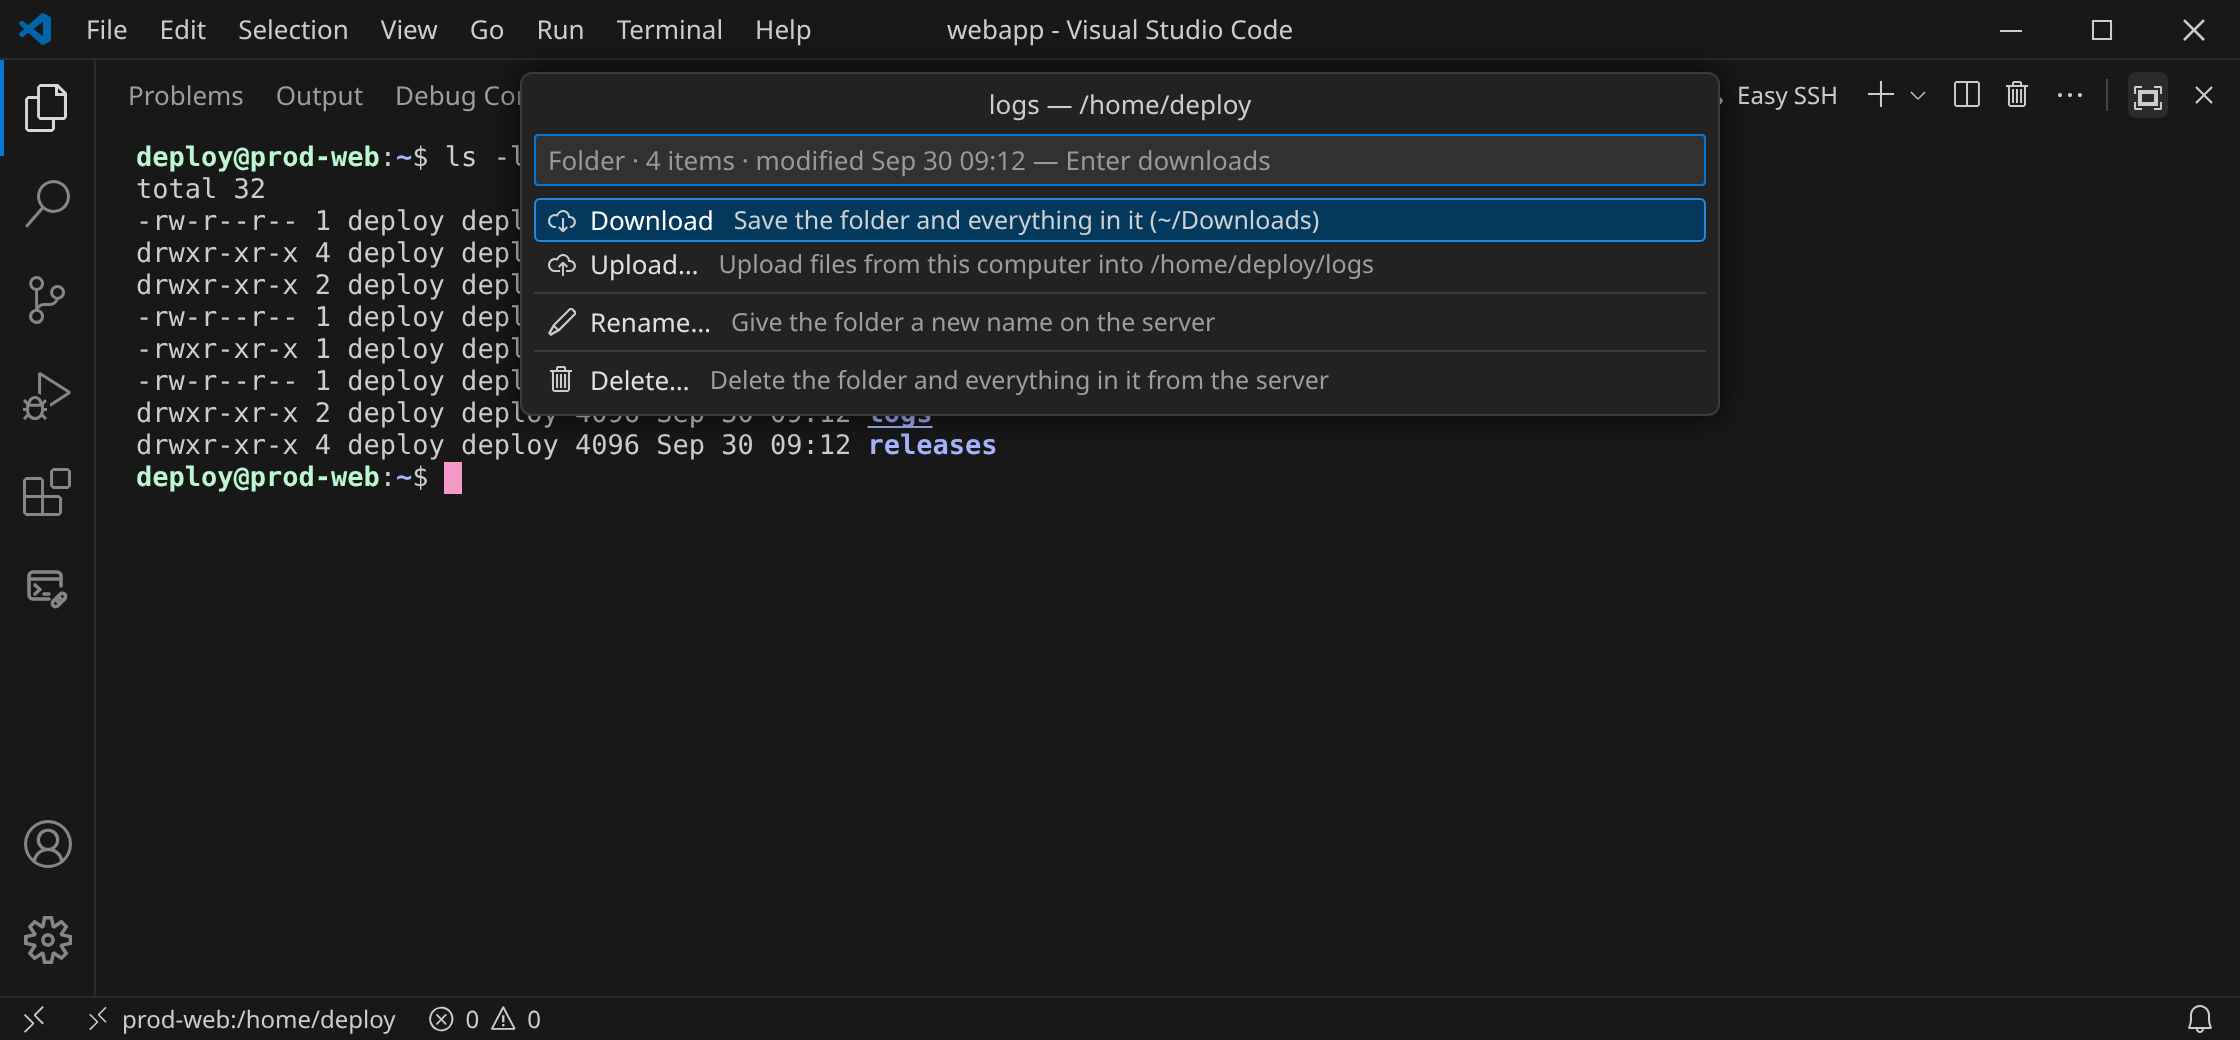
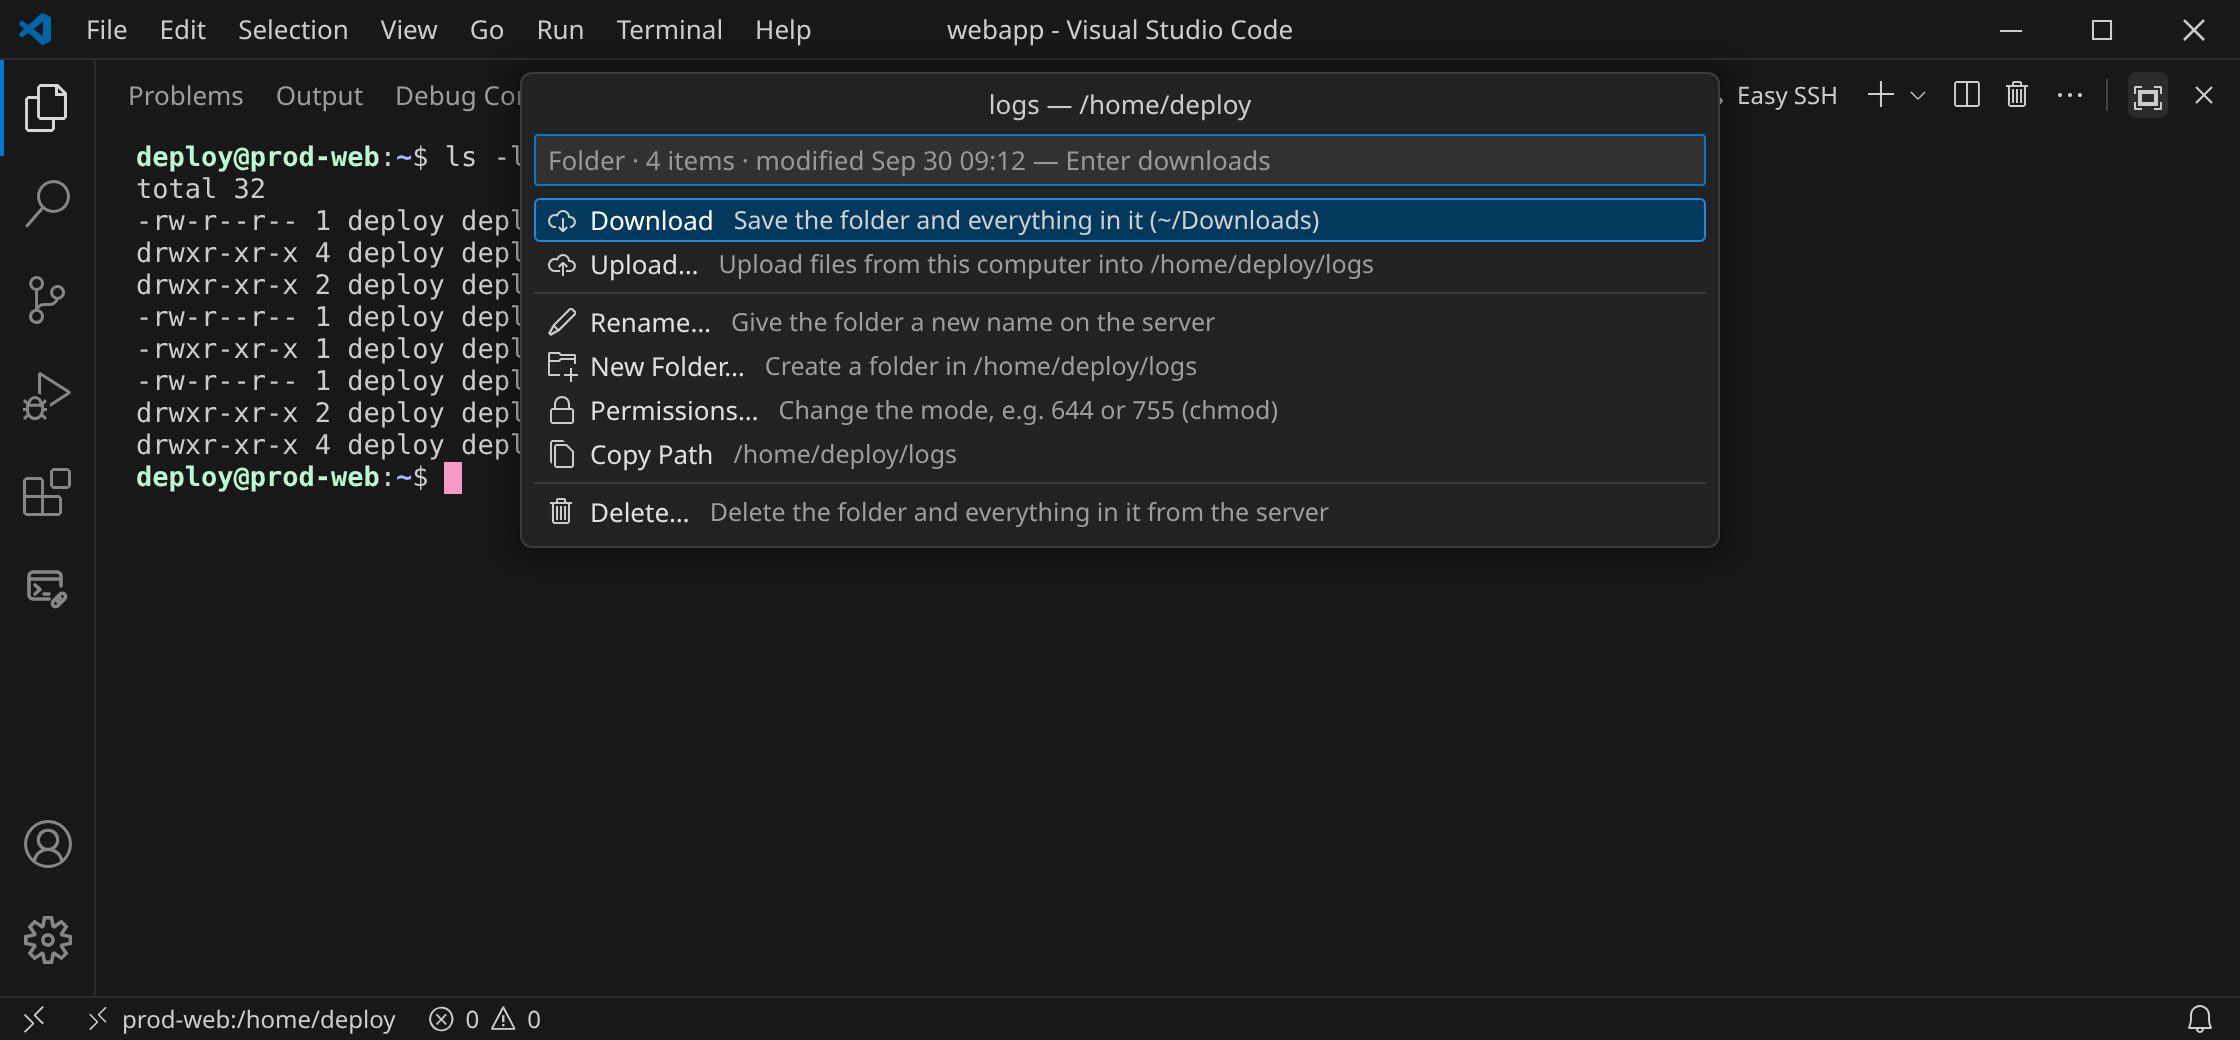
README: retake action menu screenshots and infographic with New Folder, Permissions, Copy Path (#27)

Changed region(s): [[0.2188, 0.3385, 0.5938, 0.5231]]

diff --git a/README.md b/README.md
@@ -14,7 +14,7 @@ Easy SSH talks SSH directly from your editor. **Nothing is installed on the serv
 
 *Real recording: connect from the home screen, Ctrl+click a file, Download, and follow the progress ([mp4](media/readme/demo.mp4)).*
 
-![Easy SSH overview: a home screen with your recent connection, a guided /new setup with Test connection, colors that follow your VS Code theme, sign-in options, jump hosts, a real login shell, a Ctrl+click or Cmd+click menu to download, open, rename or delete a file or folder, editing a remote file in a VS Code tab, and drop to upload](media/readme/infographic-0.4.0.png)
+![Easy SSH overview: a home screen with your recent connection, a guided /new setup with Test connection, colors that follow your VS Code theme, sign-in options, jump hosts, a real login shell, a Ctrl+click or Cmd+click menu to download, open, rename, chmod or delete a file or folder, editing a remote file in a VS Code tab, and drop to upload](media/readme/infographic-0.4.0.png)
 
 ## Install
 
@@ -142,7 +142,7 @@ Ctrl+click a file or folder name in the remote shell (Cmd+click on macOS) to ope
 
 | A folder | A text file |
 | --- | --- |
-| ![The action menu for the folder logs: Download, Upload, Rename, Delete](media/readme/08-folder-action-menu.png) | ![The action menu for the text file access.log: Download, Open, Rename, Delete](media/readme/09-file-action-menu.png) |
+| ![The action menu for the folder logs: Download, Upload, Rename, New Folder, Permissions, Copy Path, Delete](media/readme/08-folder-action-menu.png) | ![The action menu for the text file access.log: Download, Open, Rename, Permissions, Copy Path, Delete](media/readme/09-file-action-menu.png) |
 | Download, Upload, Rename, New Folder, Permissions, Copy Path, Delete | Download, Open, Rename, Permissions, Copy Path, Delete |
 
 | Action | Files | Folders | What it does |
@@ -158,7 +158,7 @@ Ctrl+click a file or folder name in the remote shell (Cmd+click on macOS) to ope
 
 **Open** is offered for text files only, so the menu for an archive, image or program has no Open:
 
-![The action menu for the archive access-2026-09-29.log.gz: Download, Rename, Delete, without Open](media/readme/19-binary-file-action-menu.png)
+![The action menu for the archive access-2026-09-29.log.gz: Download, Rename, Permissions, Copy Path, Delete, without Open](media/readme/19-binary-file-action-menu.png)
 
 Easy SSH decides by the name first (`.txt`, `.json`, `.yaml`, `.log`, `.conf`, `.sh`, `.py`, `Dockerfile`, `.bashrc`, `authorized_keys` and many more are text; `.zip`, `.tar.gz`, `.png`, `.pdf`, `.so`, `.exe` and the like are not). For any other name it reads the first 8 KB over SFTP: no NUL bytes and valid UTF-8 means text. If that read fails or takes too long, Open is offered.
 
